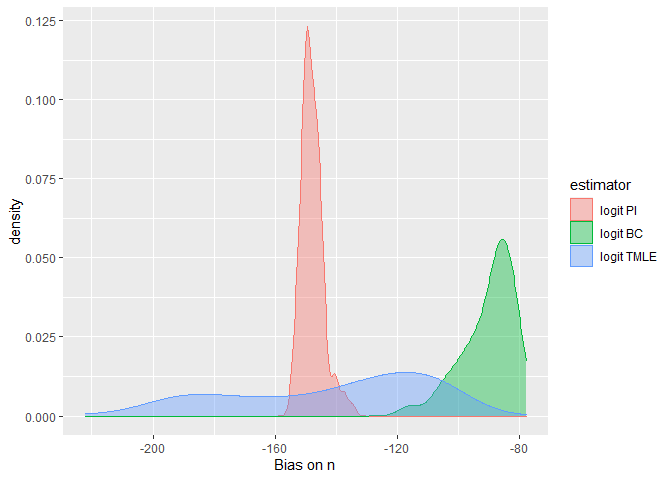
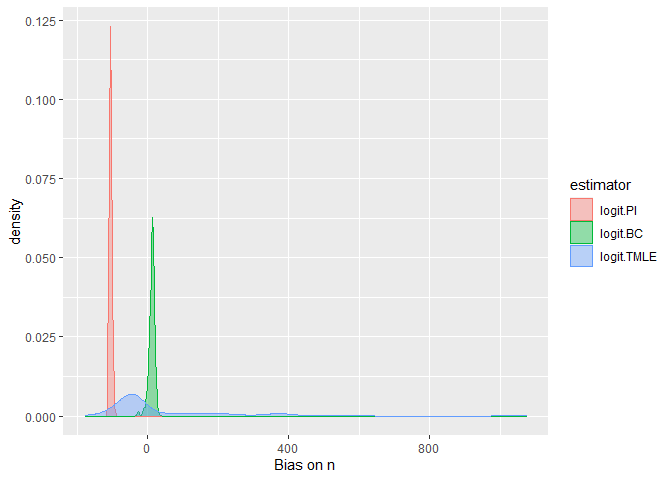
Updated readme after renaming repo

diff --git a/README.md b/README.md
@@ -31,14 +31,58 @@ devtools::install_github("mqnjqrid/EffPopSize")
 
 This is a basic example which shows you how to solve a common problem:
 
-    #>      logit PI logit BC logit TMLE
-    #> 1, 2 951.8203 976.6341    966.611
-    #>      logit PI logit BC logit TMLE
-    #> 1, 2 744.7828 781.1612   793.3336
+``` r
+library(EffPopSize)
+
+n = 1000
+x = matrix(rnorm(n*3, 2, 1), nrow = n)
+expit = function(xi) {
+  exp(sum(xi))/(1 + exp(sum(xi)))
+}
+y1 = unlist(apply(x, 1, function(xi) {sample(c(0, 1), 1, replace = TRUE, prob = c( 1 - expit(-0.6 + 0.4*xi), expit(-0.6 + 0.4*xi)))}))
+y2 = unlist(apply(x, 1, function(xi) {sample(c(0, 1), 1, replace = TRUE, prob = c( 1 - expit(-0.6 + 0.3*xi), expit(-0.6 + 0.3*xi)))}))
+datacrc = cbind(y1, y2, exp(x/2))
+
+options(warn = -1)
+estim <- psinhat(List_matrix = datacrc, func = c("logit"), nfolds = 2, K = 2)
+# The population size estimates are obtained by
+estim$n
+#>      logit.PI logit.BC logit.TMLE
+#> 1, 2 996.2992 981.2471   948.9273
+# The corresponding variances are
+estim$varn
+#>      logit.PI logit.BC logit.TMLE
+#> 1, 2 1168.821 1146.431   672.1127
+## basic example code
+```
 
 The following shows histograms of estimates for toy data. Real
 population size is 10000.
 
-    #> No id variables; using all as measure variables
+``` r
+library(EffPopSize)
+library(reshape2)
+library(ggplot2)
+
+n = 5000
+x = matrix(rnorm(n*3, 2,1), nrow = n)
+
+expit = function(xi) {
+  exp(sum(xi))/(1 + exp(sum(xi)))
+}
+y1 = unlist(apply(x, 1, function(xi) {sample(c(0, 1), 1, replace = TRUE, prob = c( 1 - expit(-0.6 + 0.4*xi), expit(-0.6 + 0.4*xi)))}))
+y2 = unlist(apply(x, 1, function(xi) {sample(c(0, 1), 1, replace = TRUE, prob = c( 1 - expit(-0.6 + 0.3*xi), expit(-0.6 + 0.3*xi)))}))
+datacrc = cbind(y1, y2, exp(x/2))
+
+estim <- do.call("rbind", lapply(1:100, function(iter){
+  return(psinhat(List_matrix = datacrc, func = c("logit"), nfolds = 2, eps = 0.01)$n)
+}))
+
+result = melt(as.data.frame(estim), variable.name = "estimator", value.name = "population_size")
+#> No id variables; using all as measure variables
+ggplot(result, aes(x = population_size - n, fill = estimator, color = estimator)) +
+  geom_density(alpha = 0.4) +
+  xlab("Bias on n")
+```
 
 <img src="man/figures/README-plot-1.png" width="100%" />
